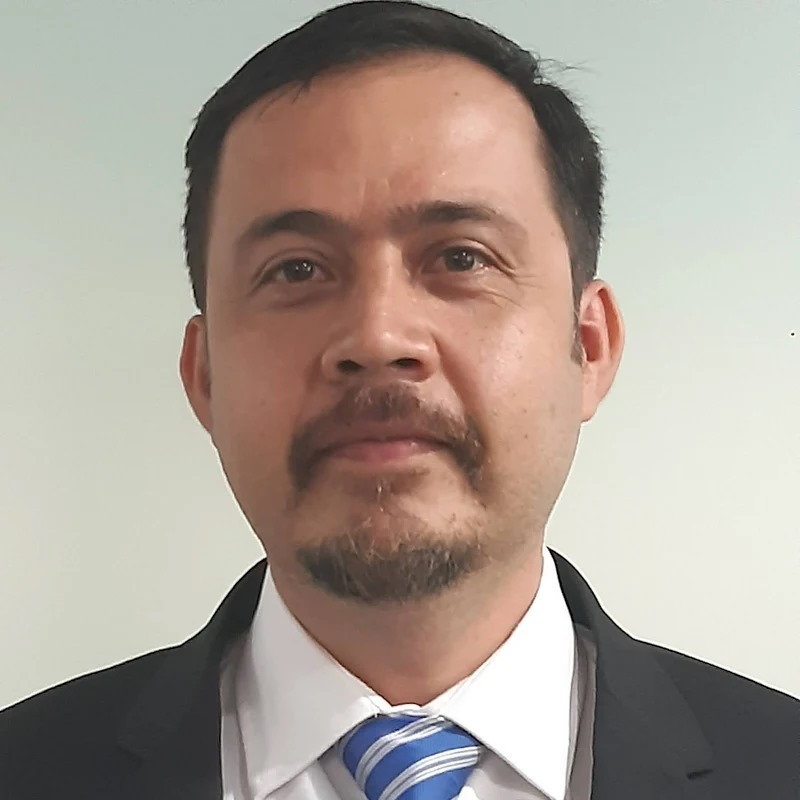
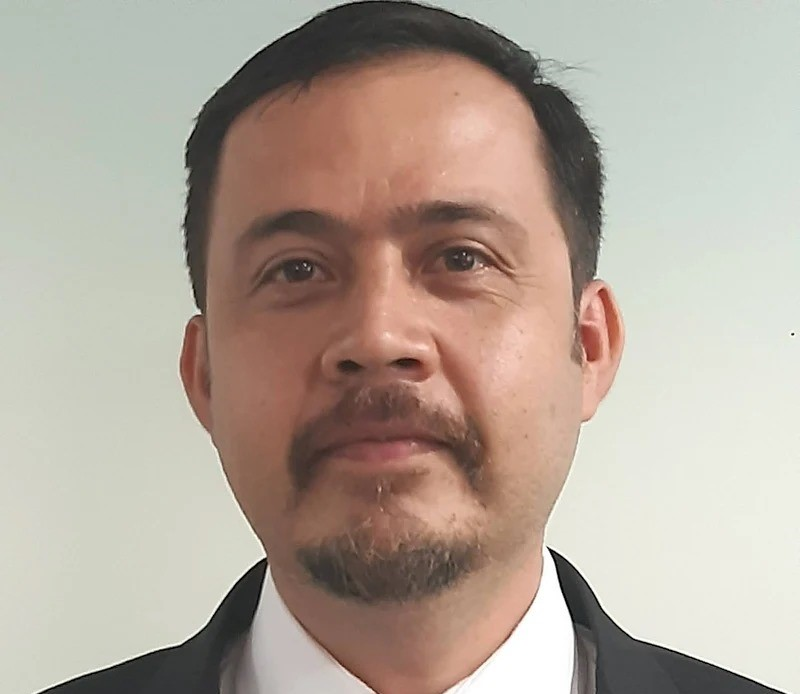
about us

diff --git a/Pages/about.html b/Pages/about.html
@@ -143,136 +143,145 @@
     </script>
 
     <div class="container mt-5">
-        <h1 class="text-center">Sobre Nosotros</h1>
+        <h1 class="text-center">About Us</h1>
         <br>
         <p class="text-center mx-auto" style="max-width: 1000px; font-size: 20px">
-            Fundada en 2015 por entusiastas de la tecnología, nuestra tienda nació con la visión de acercar la
-            innovación y calidad de los productos Apple a la comunidad, ofreciendo más que productos: una experiencia
-            única. Con atención personalizada y un compromiso constante con la excelencia, nos hemos consolidado como un
-            referente para quienes buscan asesoramiento confiable. Hoy, seguimos creciendo con la misma pasión, creando
-            un espacio donde innovación y dedicación se combinan para brindar una experiencia inigualable.
+            Founded in 1976 by Steve Jobs, Steve Wozniak and Ronald Wayne, Apple was born with a vision to revolutionize personal technology. From its beginnings in a garage with the creation of the Apple I, the company has become synonymous with innovation, redefining industries with iconic products including the Mac, iPod, iPhone and iPad. With a focus on elegant design, simplicity and functionality, Apple has established itself as a global technology leader. Today, it continues to transform the world with products and services that combine innovation, quality and a unique user experience.
         </p>
-        <h2 class="text-center mt-5">Nuestro Equipo</h2>
+        <h2 class="text-center mt-5">Our Team</h2>
         <div class="team-section mt-4">
             <!-- Miembro 1 -->
             <div class="team-member">
+                <div class="image-container">
                 <img src="/IMGS/micky.jpeg" alt="Juan Pérez">
+                </div>
                 <div>
                     <h5>Miguel Ángel</h5>
                     <p>CEO</p>
-                    <p>Con más de 8 años liderando el equipo, Juan es el visionario detrás de nuestro éxito. Su pasión
-                        por la tecnología inspira a todos.</p>
+                    <p>With over 8 years leading the team, Juan is the visionary behind our success. His passion for technology inspires everyone.</p>
                 </div>
             </div>
             <!-- Miembro 2 -->
             <div class="team-member">
+                <div class="image-container">
                 <img src="../IMGS/hasbulla.jpg"
                     alt="María López">
+                </div>
                 <div>
                     <h5>Hasbulla Magomedovich</h5>
-                    <p>Directora General</p>
-                    <p>María se asegura de que cada cliente reciba una experiencia excepcional. Ha sido fundamental en
-                        nuestra estrategia de crecimiento.</p>
+                    <p>CFO</p>
+                    <p>This little guy has nothing to envy anyone, as he
+                        takes care of all operations at an international level.</p>
                 </div>
             </div>
             <!-- Miembro 3 -->
             <div class="team-member">
+                <div class="image-container">
                 <img src="../IMGS/pajaslocas.jpeg" alt="Carlos Rodríguez">
+                </div>
                 <div>
                     <h5>Carlos Rodríguez</h5>
-                    <p>Encargado de TI</p>
-                    <p>Carlos mantiene todos los sistemas funcionando al máximo. Su ingenio técnico ha resuelto
-                        innumerables desafíos tecnológicos.</p>
+                    <p>TI Admin</p>
+                    <p>Carlos keeps all systems running at peak performance. His technical ingenuity has solved countless technological challenges.</p>
                 </div>
             </div>
             <!-- Miembro 4 -->
             <div class="team-member">
+                <div class="image-container">
                 <img src="../IMGS/DavAGod.jpg" alt="Ana Torres">
+                </div>
                 <div>
                     <h5>Oscar Dávalos</h5>
-                    <p>Diseñadora Gráfica</p>
-                    <p>Ana aporta creatividad y estilo a todas nuestras campañas. Sus diseños siempre capturan la
-                        esencia de la marca.</p>
+                    <p>Developer Trainer</p>
+                    <p>He is responsible for training all those workers who embark on a new adventure at Apple. He teaches various programming concepts.</p>
                 </div>
             </div>
             <!-- Miembro 5 -->
             <div class="team-member">
-                <img src="avatar5.jpg" alt="Jorge Martínez">
+                <div class="image-container">
+                <img src="../IMGS/dwight.jpg" alt="Jorge Martínez">
+                </div>
                 <div>
-                    <h5>Jorge Martínez</h5>
-                    <p>Especialista en Ventas</p>
-                    <p>Jorge tiene una habilidad única para entender las necesidades del cliente y ofrecer soluciones
-                        perfectas.</p>
+                    <h5>Dwight K. Schrute</h5>
+                    <p>Assistant to the Regional Manager</p>
+                    <p>Dwight has a unique ability to understand client needs and deliver perfect solutions. Although he may not follow conventional methods at times</p>
                 </div>
             </div>
             <!-- Miembro 6 -->
             <div class="team-member">
-                <img src="avatar6.jpg" alt="Isabel Ramírez">
+                <div class="image-container">
+                <img src="../IMGS/worker.jpg" alt="Isabel Ramírez" >
+                </div>
                 <div>
-                    <h5>Isabel Ramírez</h5>
-                    <p>Encargada de Logística</p>
-                    <p>Isabel organiza el inventario y asegura que cada pedido llegue a tiempo. Su gestión impecable es
-                        clave para nuestro éxito.</p>
+                    <h5>Alfredo Benson</h5>
+                    <p>Logistics Manager</p>
+                    <p>Alfredo organizes inventory and ensures that each order arrives on time. His impeccable management is
+                        key to our success.</p>
                 </div>
             </div>
             <!-- Miembro 7 -->
             <div class="team-member">
-                <img src="avatar7.jpg" alt="Lucía Fernández">
+                <div class="image-container">
+                <img src="../IMGS/camera.jpg" alt="Lucía Fernández">
+                </div>
                 <div>
-                    <h5>Lucía Fernández</h5>
-                    <p>Gerente de Operaciones</p>
-                    <p>Lucía supervisa cada detalle para garantizar que todo funcione como un reloj. Su eficiencia es
-                        insuperable.</p>
+                    <h5>Jonathan Byers</h5>
+                    <p>Marketing Manager</p>
+                    <p>Jonathan oversees every detail to ensure that everything looks its best so that the product is enjoyable for the consumer. His efficiency is second to none.</p>
                 </div>
             </div>
             <!-- Miembro 8 -->
             <div class="team-member">
-                <img src="avatar8.jpg" alt="Raúl Sánchez">
+                <div class="image-container">
+                <img src="../IMGS/tester.jpg" alt="Raúl Sánchez">
+                </div>
                 <div>
                     <h5>Daniel Avelar</h5>
-                    <p>Analista de Datos</p>
-                    <p>Raúl analiza las tendencias del mercado y guía nuestras decisiones estratégicas. Su atención al
-                        detalle es impresionante.</p>
+                    <p>Data Analyst</p>
+                    <p>Raul analyzes market trends and guides our strategic decisions. His attention to detail is impressive.</p>
                 </div>
             </div>
             <!-- Miembro 9 -->
             <div class="team-member">
+                <div class="image-container">
                 <img src="/IMGS/Wineo.jpeg" alt="Raúl Sánchez">
+                </div>
                 <div>
                     <h5>Jared Lopez</h5>
-                    <p>Administrador de la BDD</p>
-                    <p>Raúl analiza las tendencias del mercado y guía nuestras decisiones estratégicas. Su atención al
-                        detalle es impresionante.</p>
+                    <p>Data Bases Admin.</p>
+                    <p>Raul analyzes market trends and guides our strategic decisions. His attention to detail is impressive.</p>
                 </div>
             </div>
             <!-- Miembro 10 -->
             <div class="team-member">
-                <img src="avatar8.jpg" alt="Raúl Sánchez">
+                <div class="image-container">
+                <img src="../IMGS/chandler.jpeg" alt="Raúl Sánchez">
+                </div>
                 <div>
-                    <h5>Pepe el topo</h5>
-                    <p>Analista de Datos</p>
-                    <p>Raúl analiza las tendencias del mercado y guía nuestras decisiones estratégicas. Su atención al
-                        detalle es impresionante.</p>
+                    <h5>Chandler Bing</h5>
+                    <p>Transponster</p>
+                    <p>He does something that has to do something with transponding.</p>
                 </div>
             </div>
             <!-- Miembro 11 -->
             <div class="team-member">
-                <img src="avatar8.jpg" alt="Raúl Sánchez">
+                <div class="image-container">
+                <img src="../IMGS/Pete.jpg" alt="Raúl Sánchez">
+                </div>
                 <div>
-                    <h5>Pepe el topo</h5>
-                    <p>Analista de Datos</p>
-                    <p>Raúl analiza las tendencias del mercado y guía nuestras decisiones estratégicas. Su atención al
-                        detalle es impresionante.</p>
+                    <h5>Peter Parker</h5>
+                    <p>One of Apple's youngest promises. He is in charge of making patents for the creation of software</p>
                 </div>
             </div>
             <!-- Miembro 12 -->
             <div class="team-member">
-                <img src="avatar8.jpg" alt="Raúl Sánchez">
+                <div class="image-container">
+                <img src="../IMGS/developer.jpg" alt="Raúl Sánchez">
+                </div>
                 <div>
-                    <h5>Pepe el topo</h5>
-                    <p>Analista de Datos</p>
-                    <p>Raúl analiza las tendencias del mercado y guía nuestras decisiones estratégicas. Su atención al
-                        detalle es impresionante.</p>
+                    <h5></h5>
+                    <p>Metaheuristics Analyst</p>
+                    <p>It is responsible for collecting information that is later used to implement optimal algorithms. In charge of kicking off the competition</p>
                 </div>
             </div>
         </div>

diff --git a/CSS/about.css b/CSS/about.css
@@ -55,4 +55,20 @@ footer {
 img {
     width: 200px;;
     height: 200px;
+    overflow: hidden;
+}
+
+.team-member img {
+    width: 100%;
+    height: 100%;
+    object-fit: cover;
+    border: none; 
+    border-radius: 10px;
+}
+
+.image-container {
+    width: 200px; /* Ajusta el tamaño según sea necesario */
+    height: 250px; /* Ajusta el tamaño según sea necesario */
+    overflow: hidden;
+    margin: 0 auto; /* Centra el contenedor de la imagen */
 }

diff --git a/navbar.html b/navbar.html
@@ -45,7 +45,7 @@
                     </div>
                 </li>
                 <li class="nav-item active">
-                    <a class="nav-link" href="../Pages/login.html">Login</a>
+                    <a class="nav-link" href="../Pages/login.html">Log in</a>
                 </li>
             </ul>
         </div>
